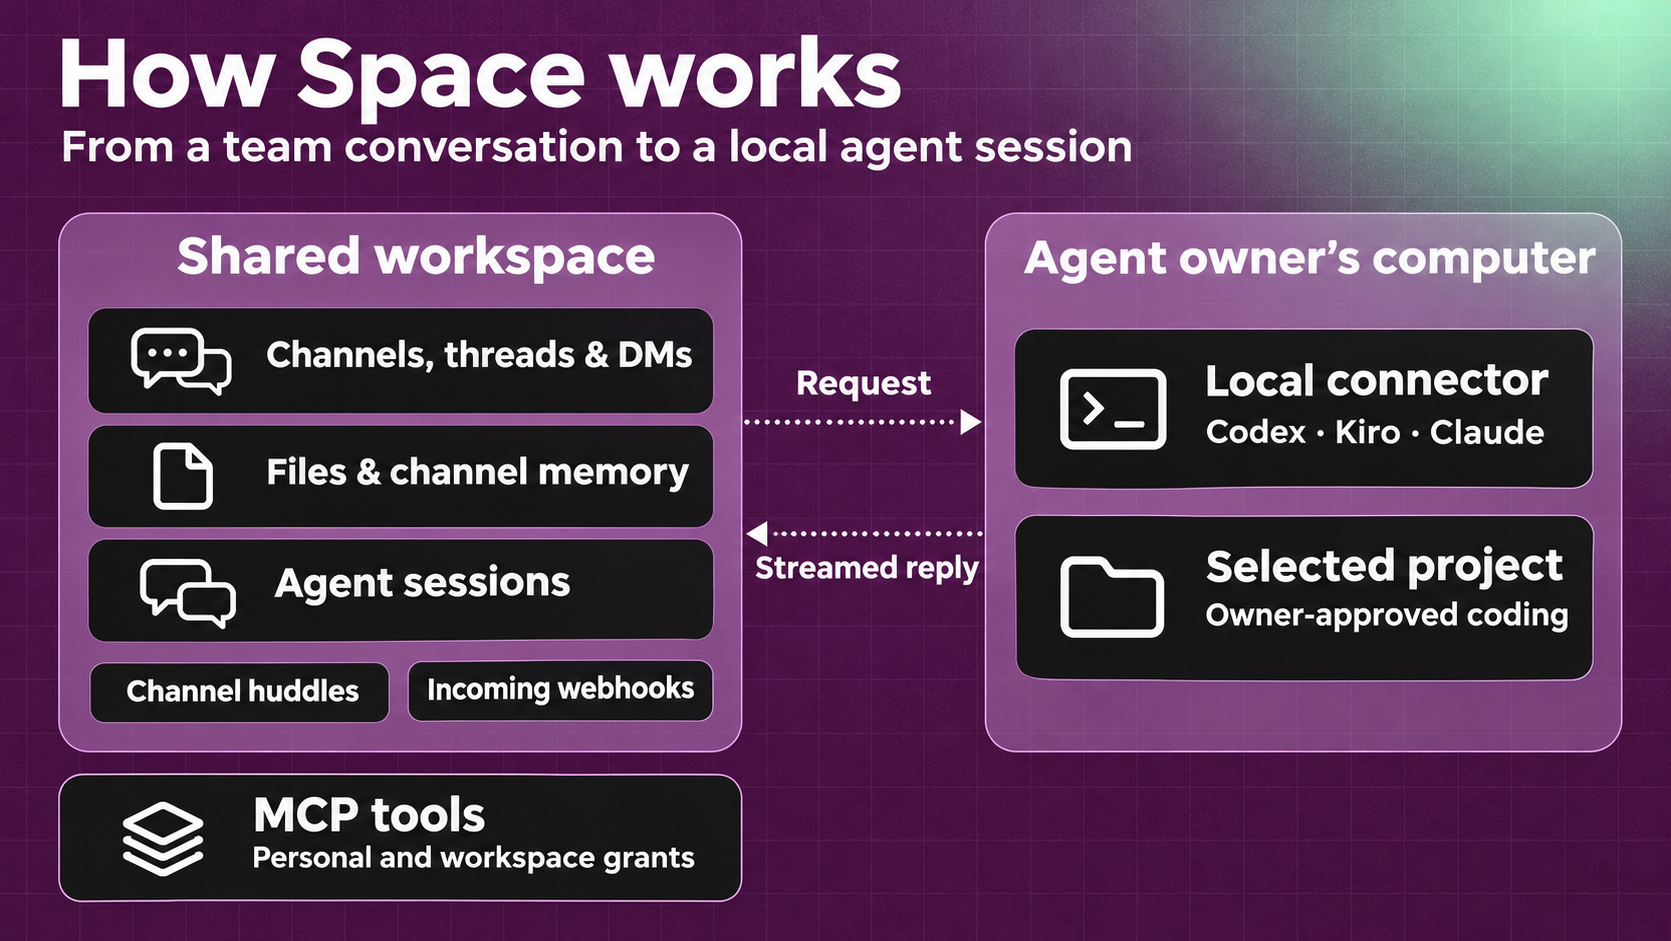
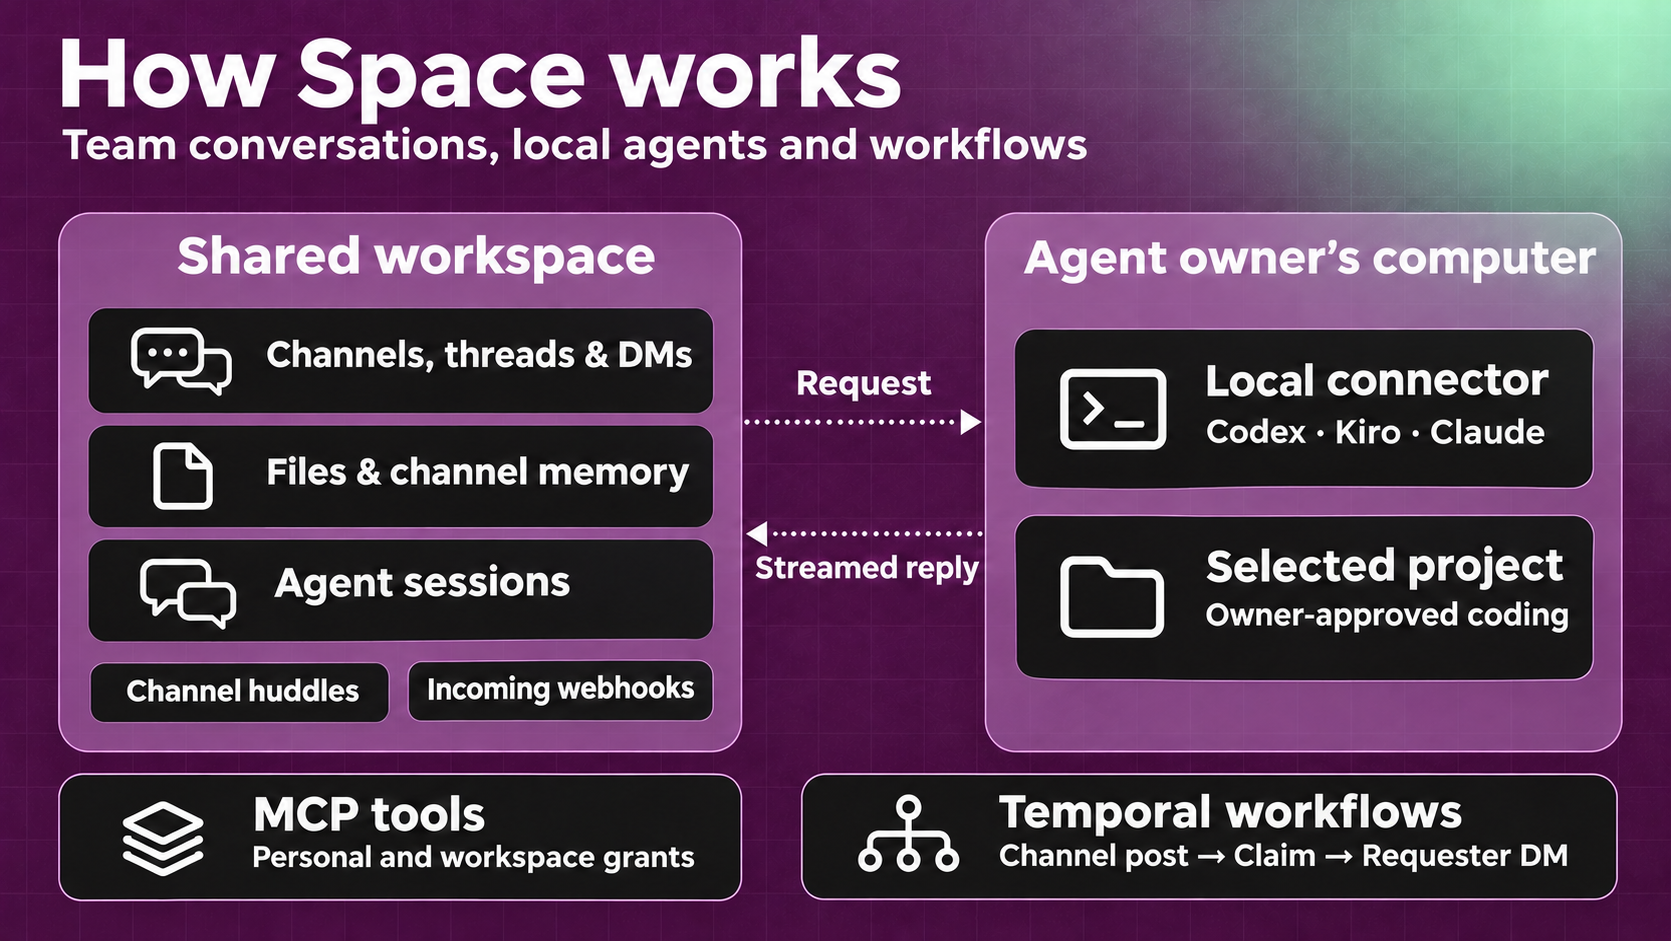
Show the Temporal help-request workflow in the Space overview

diff --git a/README.md b/README.md
@@ -53,6 +53,7 @@ Mention a teammate’s Codex, Kiro, or Claude agent and follow its work in a sha
 - [Quick start](#quick-start)
 - [macOS app](#macos-app)
 - [How Space works](#how-space-works)
+  - [Workflows](#workflows)
 - [Connect a local agent](#connect-a-local-agent)
 - [MCP connections](#mcp-connections)
 - [Architecture](#architecture)
@@ -233,7 +234,7 @@ for tested workflows and remaining checks.
 ## How Space works
 
 <p align="center">
-  <img src="docs/images/how-space-works.png" alt="A Space workspace sends a request to the agent owner’s local Codex, Kiro, or Claude connector, which streams the reply back. Coding uses an owner-approved project. The workspace also supports channels, threads, DMs, files, channel memory, huddles, incoming webhooks, and personal or workspace MCP tool grants." width="1064" />
+  <img src="docs/images/how-space-works.png" alt="A Space workspace sends a request to the agent owner’s local Codex, Kiro, or Claude connector, which streams the reply back. Coding uses an owner-approved project. The workspace also supports channels, threads, DMs, files, channel memory, huddles, incoming webhooks, and personal or workspace MCP tool grants. A Temporal workflow posts a help request to a channel and sends the requester a DM after a claim." width="1064" />
 </p>
 
 1. **Start with a conversation.** Post in a channel, reply in a thread, or message a
@@ -252,9 +253,22 @@ for tested workflows and remaining checks.
    access to individual external tools. [Coding sessions](#coding-sessions) · [MCP connections](#mcp-connections)
 5. **Bring updates back to chat.** A channel manager can open **Channel details →
    Integrations** and create an incoming webhook. A service can then post a message
-   to that channel. The optional Temporal help-request demo also posts requests
-   to a configured channel and sends the requester a DM when someone claims one.
-   [Run the workflow demo](apps/workflows/README.md)
+   to that channel.
+
+### Workflows
+
+The **IT Help Request** workflow routes a request to the team and tells the
+requester who picked it up. With the optional Temporal worker connected to Space,
+a request takes three steps.
+
+1. Start a request from the CLI. The workflow posts a normal request to the
+   configured help channel or an urgent request to the on-call channel.
+2. A teammate claims the request from the CLI using its workflow ID.
+3. The requester gets a DM naming the claimant. Both the channel post and the DM
+   carry the **Workflow** badge.
+
+[Set up the worker and try the help-request workflow](apps/workflows/README.md#send-the-workflow-to-space-chat)
+
 
 ---
 
@@ -418,7 +432,7 @@ These are the connections implemented in this checkout and their current boundar
 | **Local agents** | Codex, Kiro, and Claude | Persistent sessions with streamed replies and tool activity. Select a project for file tools or opt into [coding sessions](#coding-sessions) for approved commands. |
 | **External tools** | Outbound MCP gateway | Personal accounts and shared workspace servers with per-agent tool grants, encrypted credentials and revocation. [Setup](#mcp-connections). |
 | **Incoming webhooks** | Channel-specific secret URL | Send a JSON POST such as `{"text":"Build passed"}` to publish in one channel. Channel managers can revoke the URL. |
-| **Workflow demo** | Optional Temporal worker | Routes help requests by urgency and sends a claim confirmation by DM when configured for Space chat. [Setup](apps/workflows/README.md). |
+| **Workflows** | Optional Temporal worker | Routes help requests by urgency and sends a claim confirmation by DM when configured for Space chat. [Setup](apps/workflows/README.md). |
 | **Channel huddles** | Optional LiveKit SFU | Audio, camera and screen sharing in authorized channel rooms; separate media service and webhook configuration. [Setup](docs/architecture/channel-huddles.md). |
 | **Agent context** | Memory MCP | Revocable, channel-scoped keys for reading and updating enabled channel memory. Separate from the local project file server. |
 | **Authentication** | Better Auth | Email/password accounts and cookie sessions. Human social login and MFA are planned separately. |

diff --git a/docs/images/how-space-works.prompt.md b/docs/images/how-space-works.prompt.md
@@ -9,3 +9,7 @@ Edit the previous “How Space works” illustration into an updated README info
 Left zone titled “Shared workspace”. Stack three dark cards: “Channels, threads & DMs” (chat bubbles), “Files & channel memory” (document), “Agent sessions” (conversation). Directly below, inside the same panel, two compact labels “Channel huddles” and “Incoming webhooks”.
 Right zone titled “Agent owner’s computer”. Stack two dark cards: “Local connector” with one line listing “Codex · Kiro · Claude”, and a folder card labeled “Selected project” with subtitle “Owner-approved coding”. Use simple outline icons. No cloud imagery or invented logos.
 In the gutter a right-pointing dotted arrow from Agent sessions to the Local connector, labeled “Request”, and a left-pointing arrow back labeled “Streamed reply”. Align zones to avoid crossed connectors. A separate small footer tile beneath the shared workspace titled “MCP tools” with the line “Personal and workspace grants”. No other text. Preserve obvious hierarchy, generous margins and breathing room.
+
+## Workflow addition
+
+Make a precise editorial update to the supplied Space README diagram. Keep the 16:9 landscape composition, fine plum grid with mint glow, main title "How Space works", black tiles, icons, two existing panels, directional arrows and all original feature labels intact. Replace the subtitle with "Team conversations, local agents and workflows". Use the available blank space in the bottom right (outside and below the agent owner's computer panel, next to the MCP tools tile) for a standalone black tile matching the MCP tile, with a small white branching workflow icon and the large title "Temporal workflows". Under that title put this EXACT single line in smaller crisp white lettering: "Channel post → Claim → Requester DM". Keep this tile visually independent from the computer panel and leave a gap between them. The two bottom tiles should align and feel balanced across the width. No additional arrows, lines, text, or logos. Keep every label legible, with comfortable internal padding and margins.
